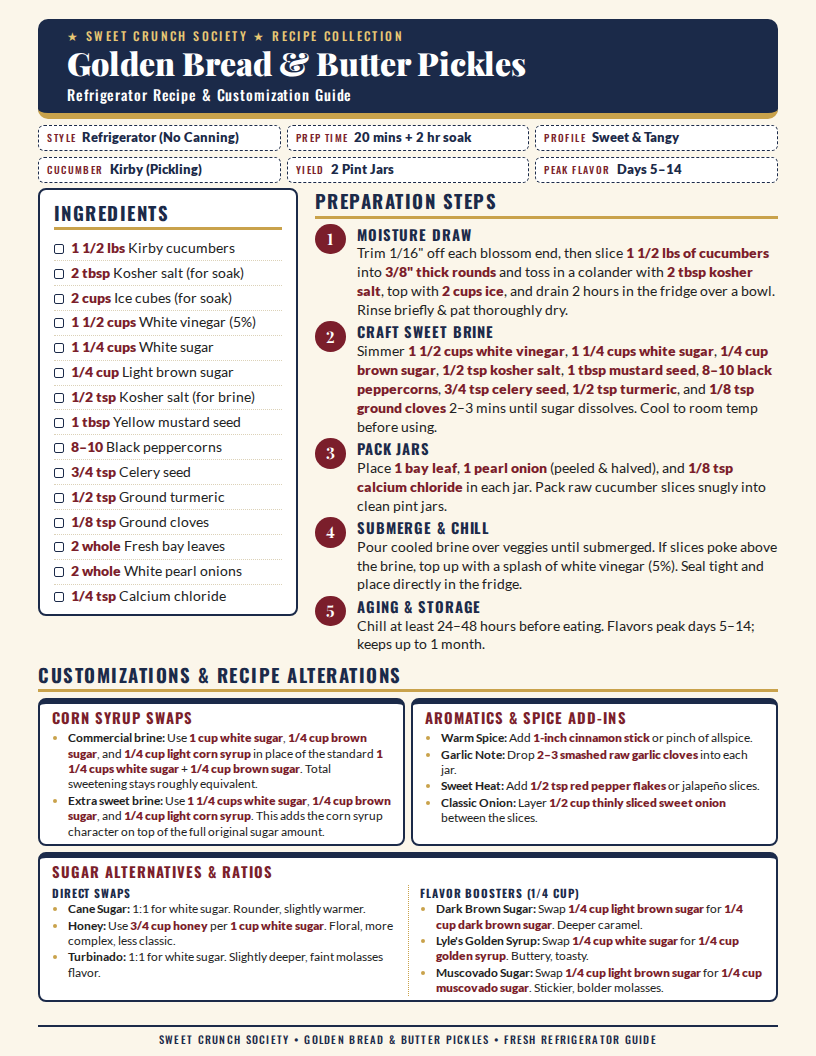
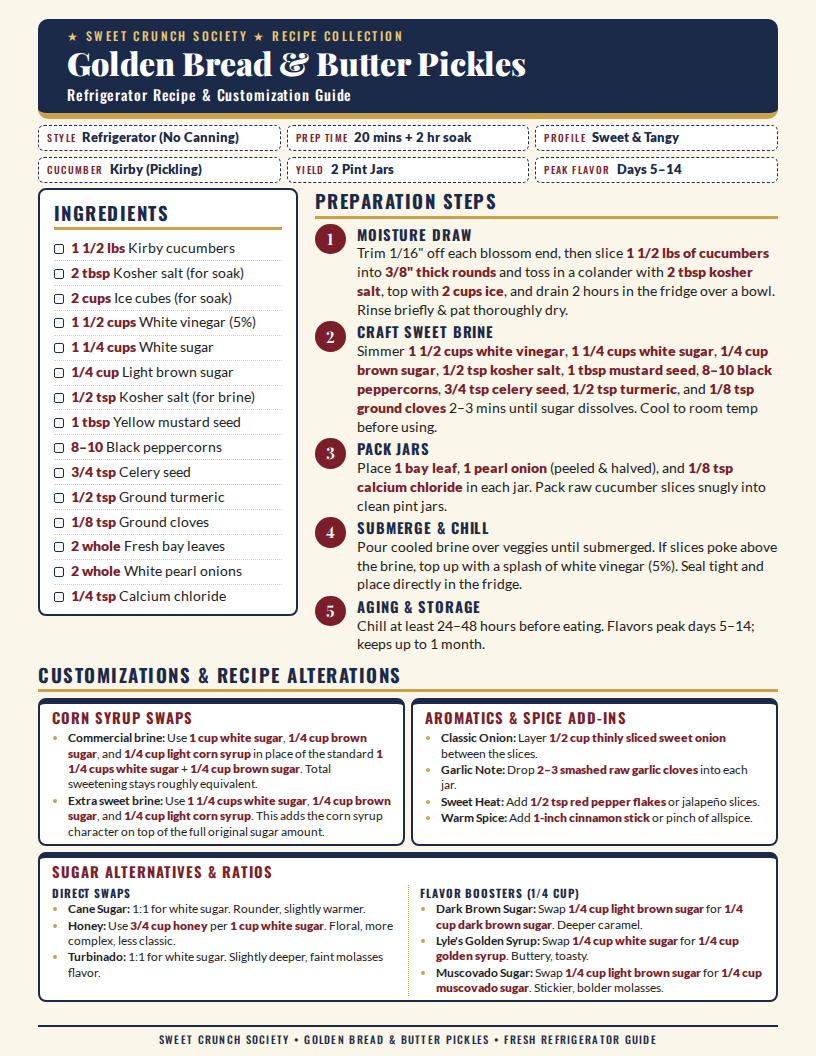
docs: alphabetize Aromatics card; drop "About" from README yield
- Aromatics & Spice Add-ins now ordered: Classic Onion, Garlic Note,
  Sweet Heat, Warm Spice.
- README at-a-glance yield reads "2 pint jars" to match the cards.
Regenerated docs/preview.png.

Changed region(s): [[0.5208, 0.6875, 0.9191, 0.7812]]

diff --git a/index.html b/index.html
@@ -190,10 +190,10 @@
         <div class="card">
           <h3>Aromatics &amp; Spice Add-ins</h3>
           <ul>
-            <li><b>Warm Spice:</b> Add <strong>1-inch cinnamon stick</strong> or pinch of allspice.</li>
+            <li><b>Classic Onion:</b> Layer <strong>1/2 cup thinly sliced sweet onion</strong> between the slices.</li>
             <li><b>Garlic Note:</b> Drop <strong>2–3 smashed raw garlic cloves</strong> into each jar.</li>
             <li><b>Sweet Heat:</b> Add <strong>1/2 tsp red pepper flakes</strong> or jalapeño slices.</li>
-            <li><b>Classic Onion:</b> Layer <strong>1/2 cup thinly sliced sweet onion</strong> between the slices.</li>
+            <li><b>Warm Spice:</b> Add <strong>1-inch cinnamon stick</strong> or pinch of allspice.</li>
           </ul>
         </div>
         <div class="card wide">

diff --git a/README.md b/README.md
@@ -31,7 +31,7 @@ Store-bought bread & butter pickles are sweet, tangy, and very crunchy. This rec
 |---|---|
 | **Style** | Refrigerator, no canning |
 | **Prep time** | 20 mins + 2 hr soak |
-| **Yield** | About 2 pint jars |
+| **Yield** | 2 pint jars |
 | **Peak flavor** | Days 5-14 |
 
 ## Accessibility
